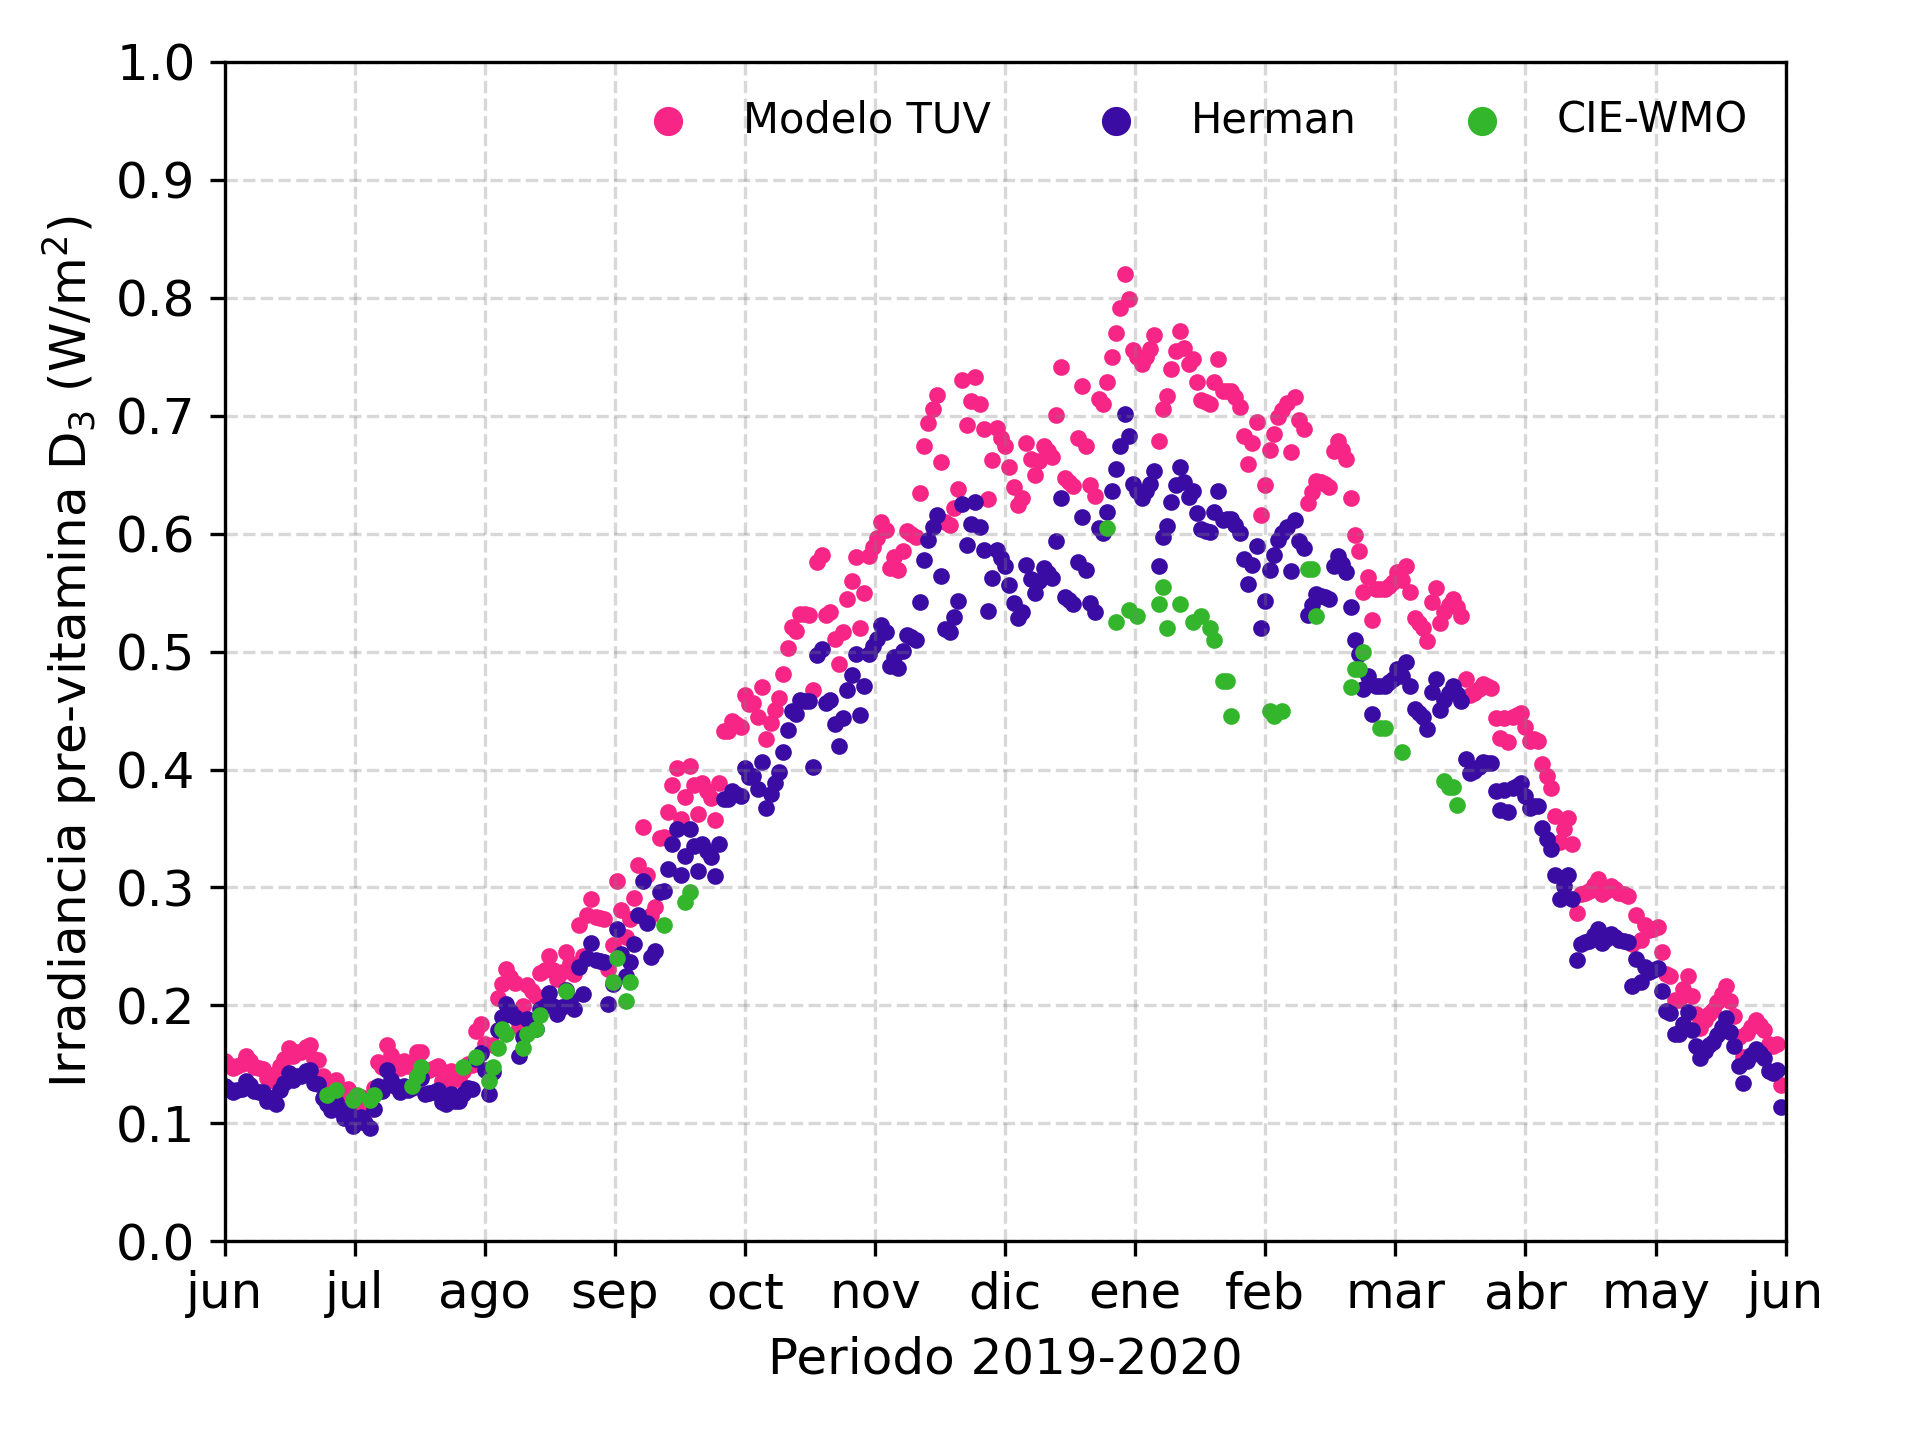
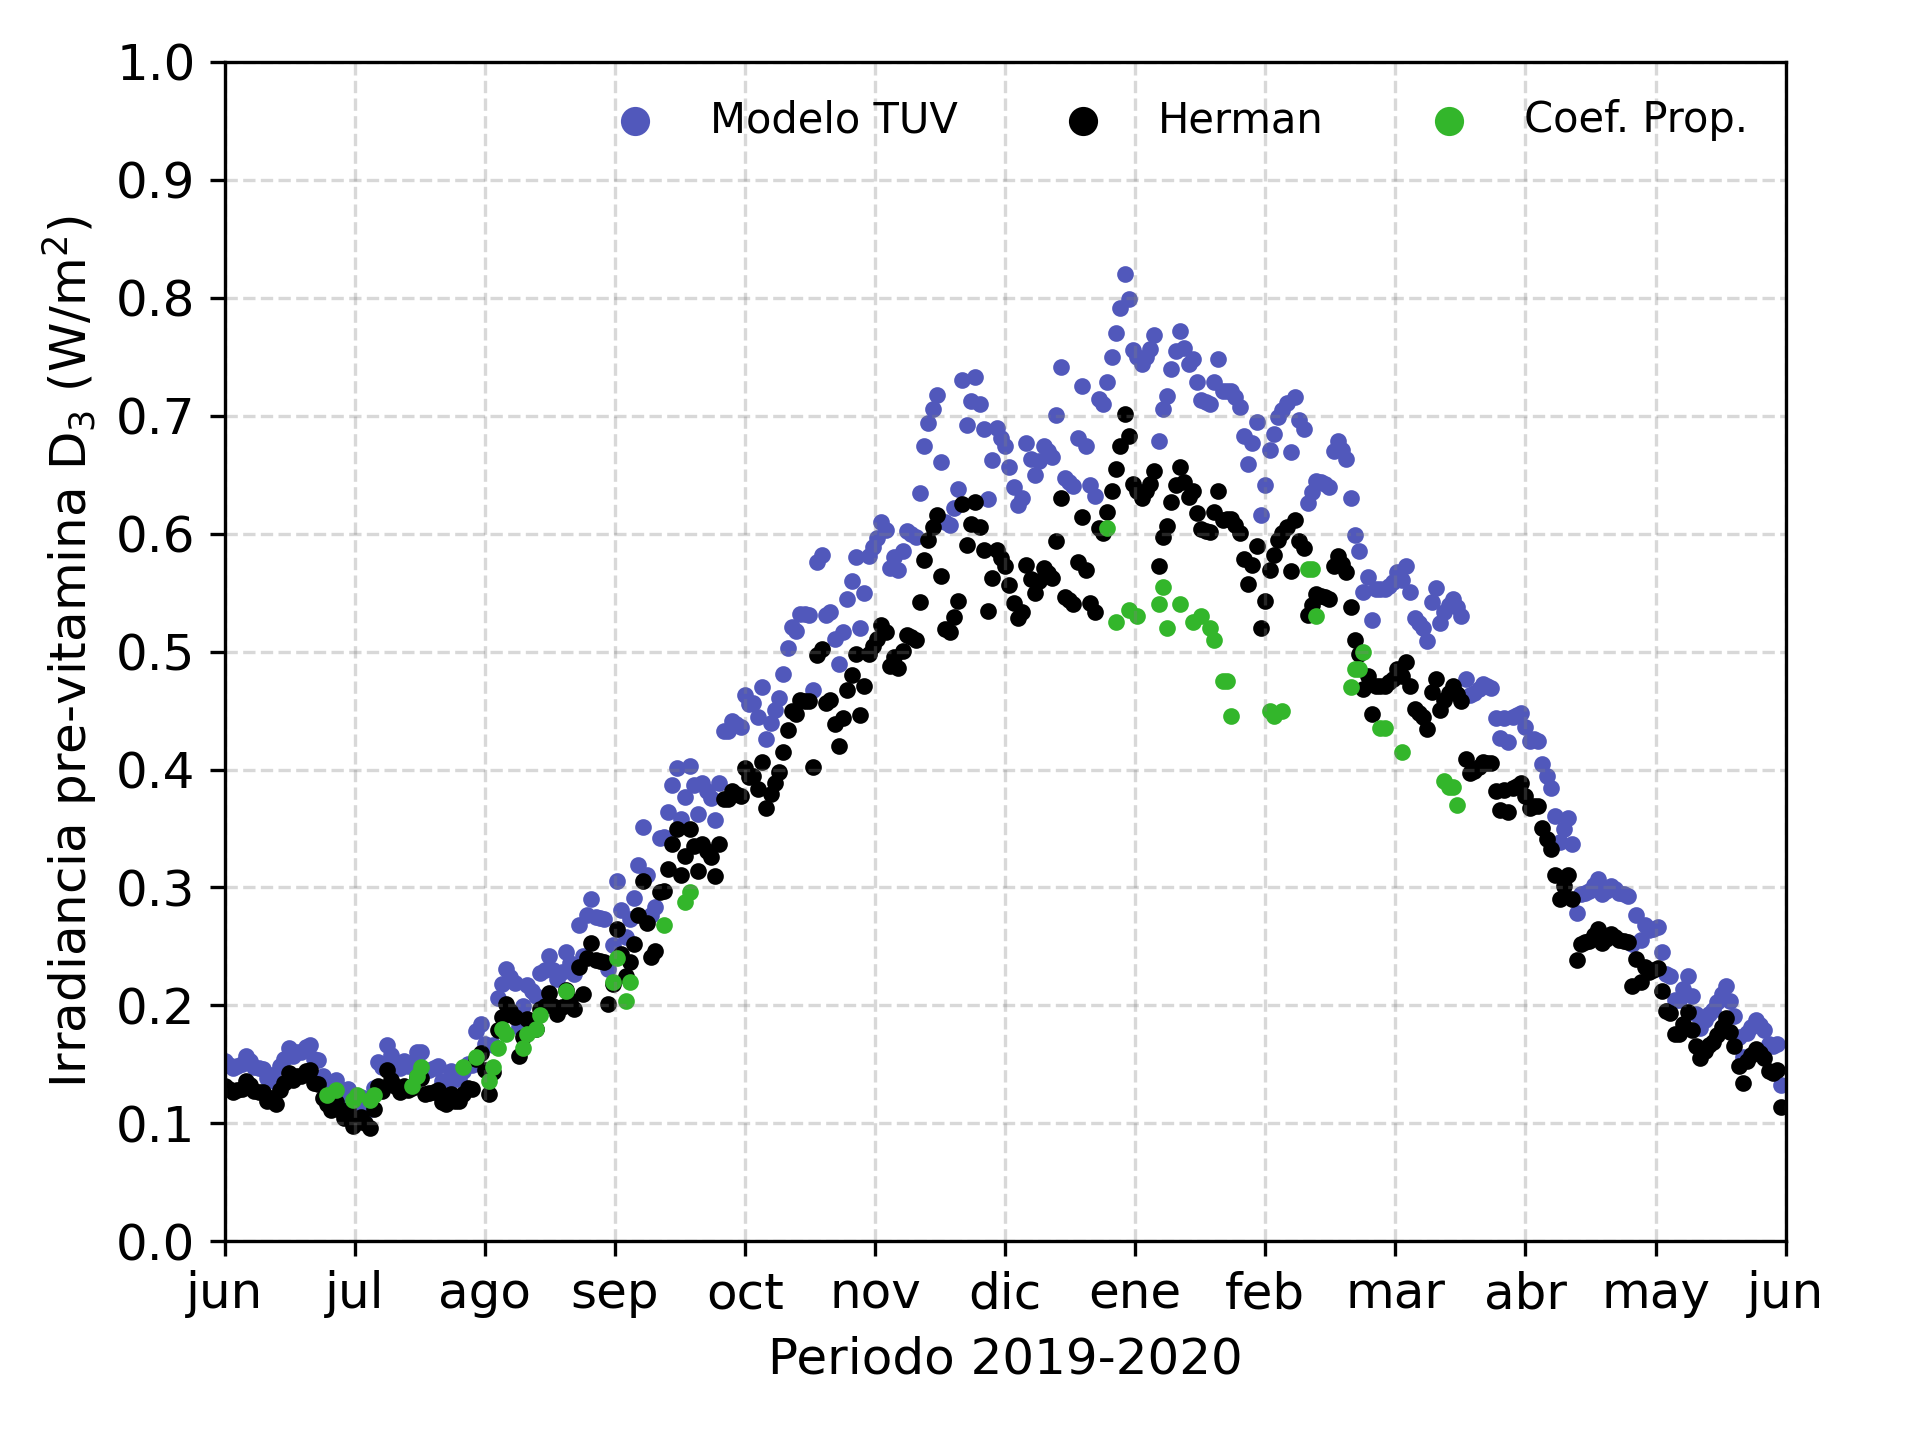
Change graphics colors and legend

diff --git a/Scripts/pre_vitamin_d_graphics.py b/Scripts/pre_vitamin_d_graphics.py
@@ -34,10 +34,10 @@ data_CIE_inv = np.loadtxt(
     dir_vitamin_d+"CIE_data.csv", delimiter=",", skiprows=inv+1, max_rows=91)*1.6/40
 x = np.arange(n_days)
 x2 = np.arange(91)
-plt.scatter(x, data_vitamin, c="#f72585", label="Modelo TUV", marker=".")
-plt.scatter(x, data_Herman, c="#3a0ca3", label="Herman", marker=".")
+plt.scatter(x, data_vitamin, c="#5158BB", label="Modelo TUV", marker=".")
+plt.scatter(x, data_Herman, c="#000000", label="Herman", marker=".")
 plt.scatter(x2[data_CIE_ver != 0]+ver, data_CIE_ver[data_CIE_ver != 0],
-            c="#33B62B", label="CIE-WMO", marker=".")
+            c="#33B62B", label="Coef. Prop.", marker=".")
 plt.scatter(x2[data_CIE_inv != 0]+inv, data_CIE_inv[data_CIE_inv != 0],
             c="#33B62B", marker=".")
 plt.ylabel("Irradiancia pre-vitamina D$_3$ (W/m$^2$)", fontsize=12)
@@ -50,7 +50,7 @@ plt.grid(ls="--", color="grey", alpha=0.3)
 plt.legend(frameon=False, ncol=3, markerscale=2)
 plt.subplots_adjust(left=0.117, bottom=0.138, right=0.93, top=0.957)
 plt.savefig(dir_graphics+"Previtamin_D.png", dpi=300)
-# plt.show()
+plt.show()
 
 data_Herman_ver = part_period(data_Herman, ver)
 data_vitamin_ver = part_period(data_vitamin, ver)
